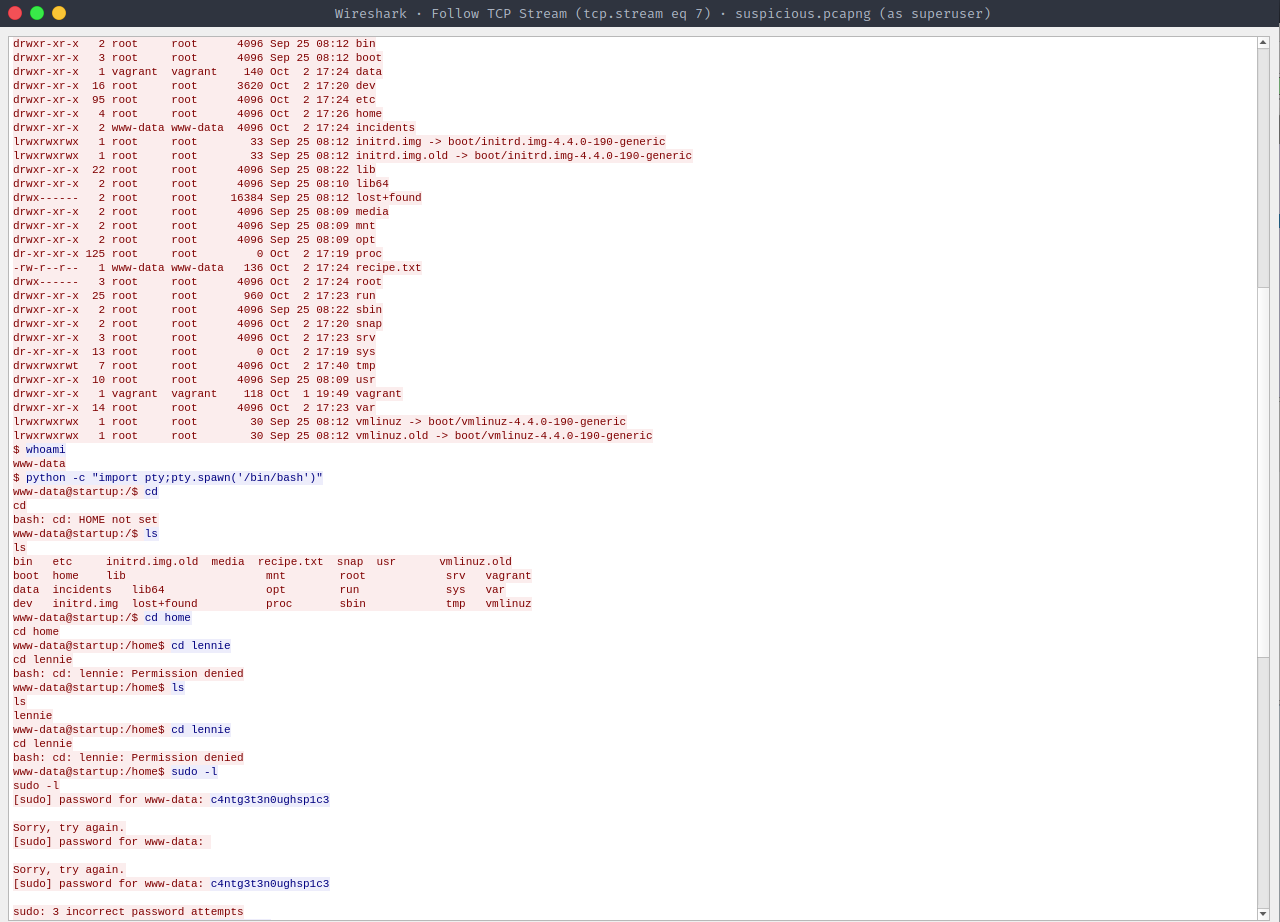
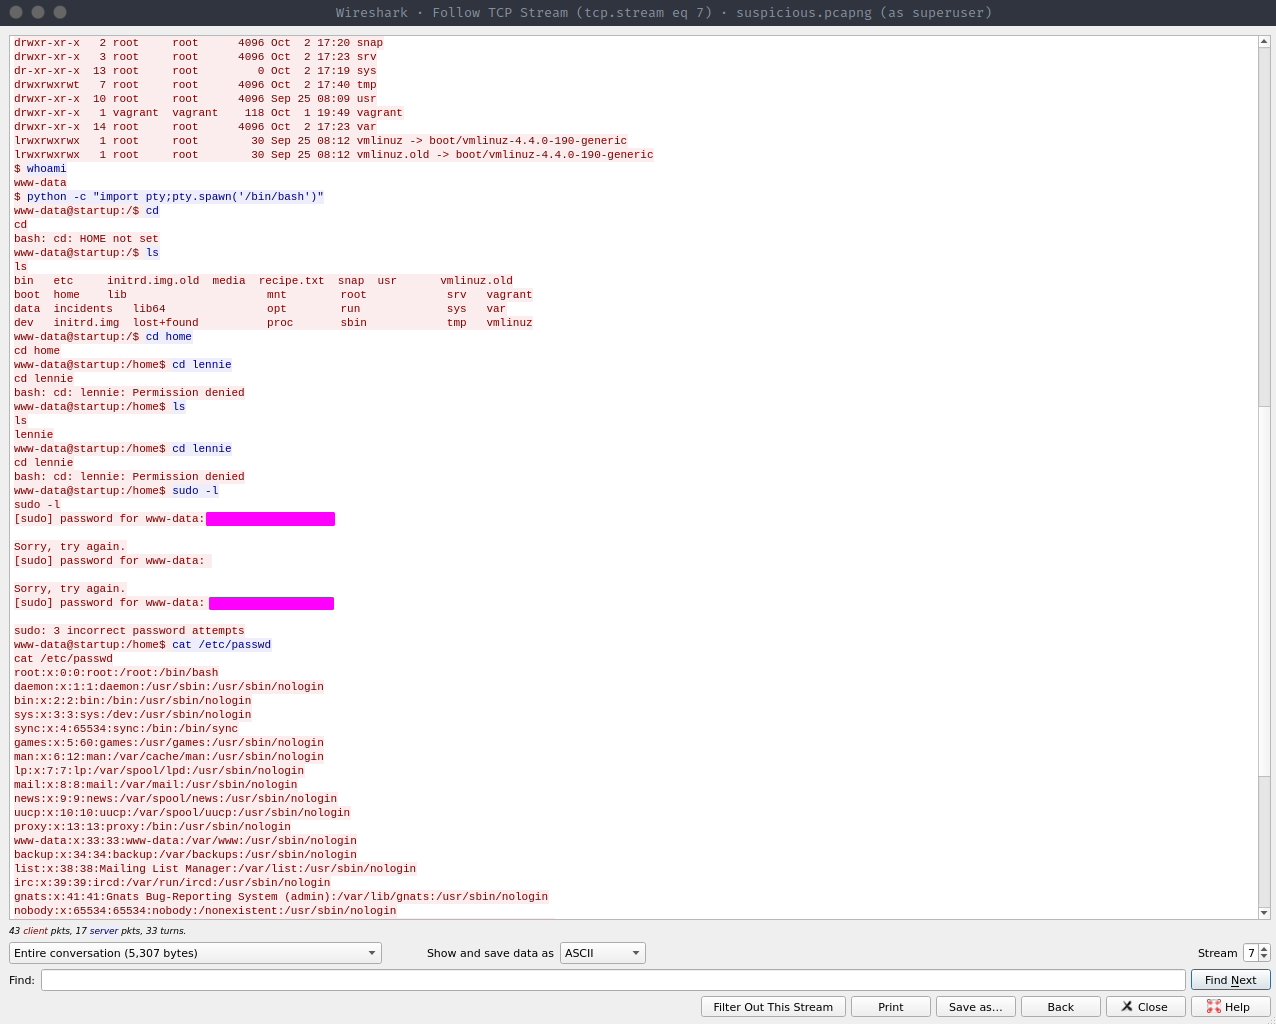
more changes to startup, I'm a little rusty

Changed region(s): [[0.0, 0.0, 1.0, 1.0], [0.3362, 0.6074, 0.4279, 0.6681], [0.3362, 0.2733, 0.4279, 0.3341]]

diff --git a/_posts/2020-11-13-Startup.md b/_posts/2020-11-13-Startup.md
@@ -137,7 +137,7 @@ Now we can investigate the wireshark file on our attacking machine. Firing it up
 <br>
 <br>
 
-We get a potential password out of it, `c4ntg3t3n0ughsp1c3`. While this isn't the root password that we'd like it to be, it is the password for user lennie. We can now grab the user flag.
+We get a potential password out of the wireshark file. While this isn't the root password that we'd like it to be, it is the password for user lennie. We can now grab the user flag.
 
 ![](assets/images/startup/startup_user.png)
 <br>
